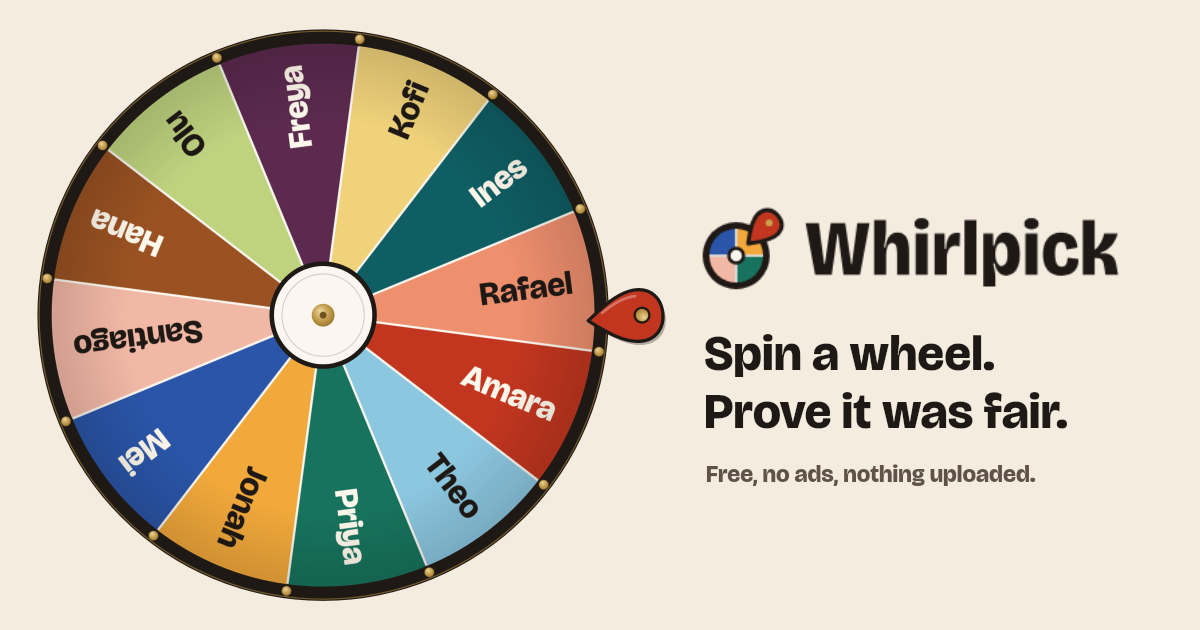
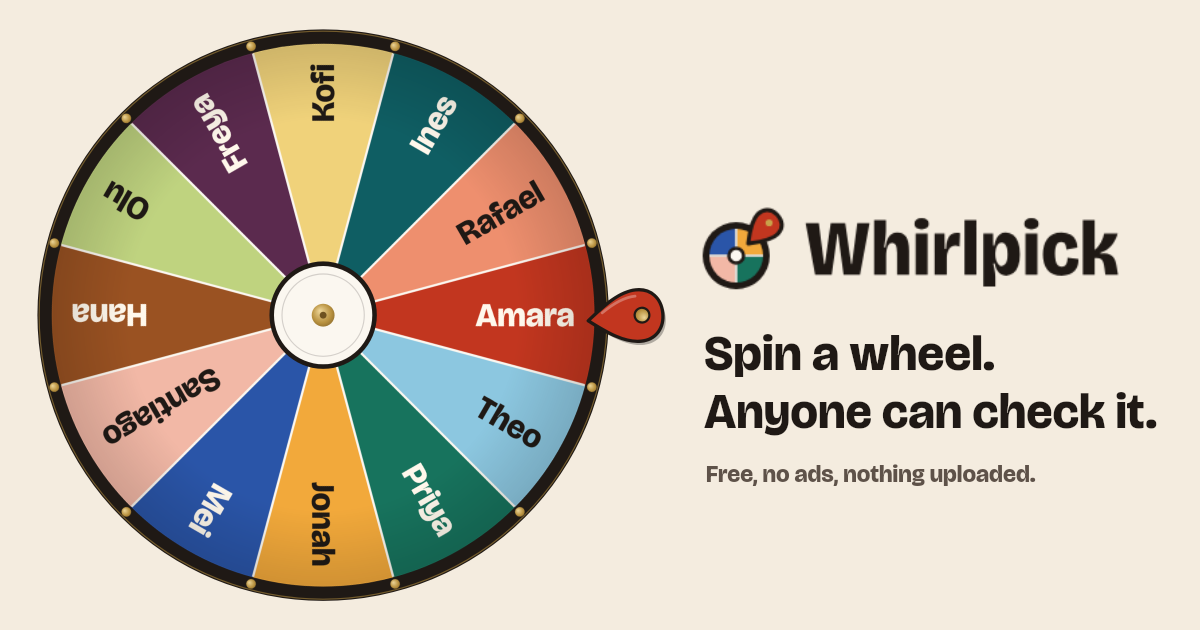
Web: OG line 'Anyone can check it.' with the pick mid-slice; 404 page gets a small wheel from our renderer resting on an empty slice (REVIEW P2-12); confetti unit test holds K4 as amended (<= 180, nothing after 2.8 s)

Changed region(s): [[0.0308, 0.0603, 0.5242, 0.9349], [0.5858, 0.6032, 0.9867, 0.6937]]

diff --git a/apps/web/scripts/make-og.ts b/apps/web/scripts/make-og.ts
@@ -1,5 +1,7 @@
 // Renders public/og.png (1200 × 630) from the real wheel renderer: wheel left, wordmark and one
 // plain line right, on the ground colour (SPEC §13). The launch agent may replace it.
+// Also renders the 404 page's small wheel (public/brand/404-wheel-{day,night}.png, REVIEW P2-12):
+// the pick resting on an empty sunk slice.
 //   pnpm --filter @whirlpick/web exec tsx scripts/make-og.ts
 import { writeFileSync } from "node:fs";
 import { resolve } from "node:path";
@@ -25,7 +27,9 @@ const wheelW = 640;
 const theme = { ...wheelTheme("enamel", "light"), labelWeight: 800 };
 const scene = buildScene({ entries, settings: { palette: null, mysteryMode: false, fontScale: 1, centre: { text: null, imageRef: null } }, theme, radiusPx: wheelW / 2.24 });
 const wheel = createCanvas(wheelW * 2, Math.round(heightFor(wheelW) * 2));
-renderWheel(wheel.getContext("2d") as unknown as CanvasRenderingContext2D, scene, 0.021, { width: wheelW, dpr: 2, pick: 6, veilPos: 2, veil: 0, outline: 0 }, { createCanvas: (a, b) => createCanvas(a, b) as never, images: new Map() });
+// The pick rests mid-slice (SPEC §13: never on a boundary).
+const rest = (sc: typeof scene, pos: number) => sc.pointerTurn - (sc.geometry[pos]!.start + sc.geometry[pos]!.end) / 2;
+renderWheel(wheel.getContext("2d") as unknown as CanvasRenderingContext2D, scene, rest(scene, 0), { width: wheelW, dpr: 2, pick: 6, veilPos: 2, veil: 0, outline: 0 }, { createCanvas: (a, b) => createCanvas(a, b) as never, images: new Map() });
 ctx.drawImage(wheel, 26, 18, wheelW, heightFor(wheelW));
 
 const mark = await loadImage(resolve(WEB, "public/brand/wordmark.svg"));
@@ -35,9 +39,26 @@ ctx.drawImage(mark, 700, 206, mw, mh);
 ctx.fillStyle = "#1F1915";
 ctx.font = '800 50px "Bricolage Grotesque Variable"';
 ctx.fillText("Spin a wheel.", 704, 206 + mh + 78);
-ctx.fillText("Prove it was fair.", 704, 206 + mh + 136);
+// An honest claim: the draw is checkable, not "proven fair".
+const line2 = "Anyone can check it.";
+let fs = 50;
+while (fs > 36 && (ctx.font = `800 ${fs}px "Bricolage Grotesque Variable"`, ctx.measureText(line2).width > W - 704 - 40)) fs -= 1;
+ctx.fillText(line2, 704, 206 + mh + 136);
 ctx.fillStyle = "#5E5249";
 ctx.font = '400 24px "Bricolage Grotesque Variable"';
 ctx.fillText("Free, no ads, nothing uploaded.", 706, 206 + mh + 190);
 writeFileSync(resolve(WEB, "public/og.png"), c.toBuffer("image/png"));
 console.log("wrote public/og.png");
+
+// 404: a 160 px wheel (box 179 px) without labels, the slice under the pick left empty (sunk).
+for (const scheme of ["light", "dark"] as const) {
+  const th = wheelTheme("enamel", scheme);
+  const boxW = Math.round((160 * 2.24) / 2);
+  const base = buildScene({ entries: normaliseEntries(["a", "b", "c", "d", "e", "f", "g", "h"]).entries, settings: { palette: null, mysteryMode: false, fontScale: 1, centre: { text: null, imageRef: null } }, theme: th, radiusPx: boxW / 2.24 });
+  const sc = { ...base, labels: false, slices: base.slices.map((sl, i) => (i === 0 ? { ...sl, fill: th.emptyFace, label: "" } : sl)) };
+  const art = createCanvas(boxW * 2, Math.round(heightFor(boxW) * 2));
+  renderWheel(art.getContext("2d") as unknown as CanvasRenderingContext2D, sc, rest(sc, 0), { width: boxW, dpr: 2, pick: 0 }, { createCanvas: (a, b) => createCanvas(a, b) as never, images: new Map() });
+  const name = `public/brand/404-wheel-${scheme === "light" ? "day" : "night"}.png`;
+  writeFileSync(resolve(WEB, name), art.toBuffer("image/png"));
+  console.log(`wrote ${name} (${boxW}×${Math.round(heightFor(boxW))} CSS px)`);
+}

diff --git a/apps/web/test/unit/confetti.test.ts b/apps/web/test/unit/confetti.test.ts
@@ -3,7 +3,9 @@ import { LIFETIME, makeParticles, MAX_PARTICLES, particleAt } from "../../src/co
 
 describe("confetti (SPEC §7.5, ACCEPTANCE K4)", () => {
   const o = { x: 800, y: 400, colors: ["#C2361F", "#17735D"], winnerColor: "#2A55A8", seed: 42, count: 999 };
-  it("never makes more than 180 particles", () => {
+  it("never makes more than 180 particles (K4 as amended: ≤ 180, nothing drawn after 2.8 s)", () => {
+    expect(MAX_PARTICLES).toBeLessThanOrEqual(180);
+    expect(LIFETIME).toBeLessThanOrEqual(2.8);
     expect(makeParticles(o)).toHaveLength(MAX_PARTICLES);
     expect(makeParticles({ ...o, count: 70 })).toHaveLength(70);
   });
@@ -17,6 +19,7 @@ describe("confetti (SPEC §7.5, ACCEPTANCE K4)", () => {
   it("draws nothing after its lifetime and fades at the end", () => {
     const ps = makeParticles(o);
     expect(ps.every((p) => particleAt(p, LIFETIME + 0.01, o.x, o.y) === null)).toBe(true);
+    expect(ps.every((p) => particleAt(p, 2.8, o.x, o.y) === null)).toBe(true);
     expect(ps.every((p) => particleAt(p, 0.1, o.x, o.y)!.alpha === 1)).toBe(true);
     expect(ps.every((p) => particleAt(p, LIFETIME - 0.1, o.x, o.y)!.alpha < 0.5)).toBe(true);
   });

diff --git a/apps/web/src/styles/app.css b/apps/web/src/styles/app.css
@@ -3312,3 +3312,38 @@ main.app.presenter .spin .key {
 main.app.presenter .wheelbtn:focus-visible .wheel-focus {
   outline: none;
 }
+
+/* P2-12: the 404 wheel (pre-rendered by scripts/make-og.ts), left of the heading. */
+.nf-head {
+  display: flex;
+  align-items: center;
+  gap: 28px;
+}
+.nf-head h1 {
+  margin: 0;
+}
+.nf-art {
+  flex: none;
+  width: 179px;
+  height: 179px;
+  background: url(/brand/404-wheel-day.png) center / contain no-repeat;
+}
+@media (prefers-color-scheme: dark) {
+  :root:not([data-theme="light"]) .nf-art {
+    background-image: url(/brand/404-wheel-night.png);
+  }
+}
+:root[data-theme="dark"] .nf-art {
+  background-image: url(/brand/404-wheel-night.png);
+}
+@media (max-width: 759px) {
+  .nf-head {
+    flex-direction: column;
+    align-items: flex-start;
+    gap: 16px;
+  }
+  .nf-art {
+    width: 120px;
+    height: 120px;
+  }
+}

diff --git a/apps/web/src/pages/static.tsx b/apps/web/src/pages/static.tsx
@@ -215,7 +215,11 @@ function NotFoundBody() {
       <PageHeader />
       <main id="main" className="page nf-page">
         <div className="page-in">
-          <h1 className="display">This page isn't here</h1>
+          <div className="nf-head">
+            {/* REVIEW P2-12: our own renderer's wheel, the pick resting on an empty slice. */}
+            <span className="nf-art" aria-hidden="true" />
+            <h1 className="display">This page isn't here</h1>
+          </div>
           <p className="lede">The link may be old or mistyped. Nothing you entered left your device.</p>
           <div className="acts">
             <a className="btn primary" href="/">
